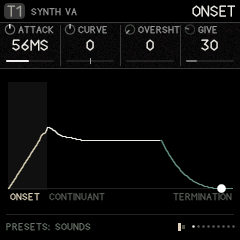
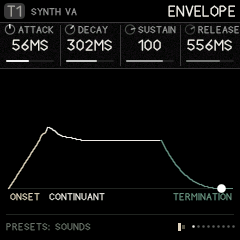
ENV: ATTACK, DECAY, SUSTAIN, RELEASE on the first page
The volume envelope's first page is ENVELOPE (attack, decay, sustain,
release); ONSET follows with CURVE, OVERSHT and GIVE, then LOOP / TAIL.
The picture lights the whole shape on ENVELOPE, the onset on ONSET and
the hold and end on LOOP / TAIL. Manual screens redrawn.

Claude-Session: https://claude.ai/code/session_01BwzGhPZLDZkrxZk5dy3Yyf

diff --git a/firmware/app/rv_ui.c b/firmware/app/rv_ui.c
@@ -102,9 +102,9 @@ static const page_t pages[] = {
     {SEC_VOICE, V_ALL, PIC_MIX, PR_SOUND, "MIX", {TP(TP_LEVEL), TP(TP_PAN), TP(TP_DLYS), TP(TP_REVS)}},
     {SEC_VOICE, V_ALL, PIC_MIX, PR_SOUND, "SENDS", {TP(TP_FBS), TP(TP_PAIRS), TP(TP_VOC), TP(TP_BANDS)}},
 
-    {SEC_ARTIC, V_ALL, PIC_ENV, PR_SOUND, "ONSET", {TP(TP_ATK), TP(TP_ACURVE), TP(TP_OVER), TP(TP_GIVE)}},
-    {SEC_ARTIC, V_ALL, PIC_ENV, PR_SOUND, "CONTINUANT", {TP(TP_DEC), TP(TP_SUS), TP(TP_LOOP), NO}},
-    {SEC_ARTIC, V_ALL, PIC_ENV, PR_SOUND, "TERMINATION", {TP(TP_REL), TP(TP_TAIL), NO, NO}},
+    {SEC_ARTIC, V_ALL, PIC_ENV, PR_SOUND, "ENVELOPE", {TP(TP_ATK), TP(TP_DEC), TP(TP_SUS), TP(TP_REL)}},
+    {SEC_ARTIC, V_ALL, PIC_ENV, PR_SOUND, "ONSET", {TP(TP_ACURVE), TP(TP_OVER), TP(TP_GIVE), NO}},
+    {SEC_ARTIC, V_ALL, PIC_ENV, PR_SOUND, "LOOP / TAIL", {TP(TP_LOOP), TP(TP_TAIL), NO, NO}},
     {SEC_ARTIC, V_ALL, PIC_ENV, PR_SOUND, "DESTINATIONS", {TP(TP_EDST1), TP(TP_EAMT1), TP(TP_EDST2), TP(TP_EAMT2)}},
     /* the FILTER ENV: its own delay, attack, hold, decay, sustain, release, bends, loop and rate */
     {SEC_ARTIC, V_ALL, PIC_FENV, PR_SOUND, "FILTER ENV", {TP(TP_FATK), TP(TP_FDEC), TP(TP_FSUS), TP(TP_FREL)}},
@@ -2866,7 +2866,7 @@ static void pic_env(void)
     float wa = 18.0f + fm_sqrtf(atk) * 40.0f, wd = 18.0f + fm_sqrtf(dec) * 40.0f, wr = 18.0f + fm_sqrtf(rel) * 40.0f, wh = 40.0f;
     float tot = wa + wd + wh + wr, sc = 224.0f / tot;
     const page_t *pg = cur_page();
-    int focus = pg->title[0] == 'O' ? 0 : pg->title[0] == 'C' ? 1 : pg->title[0] == 'T' ? 2 : -1;
+    int focus = pg->title[0] == 'O' ? 0 : pg->title[0] == 'L' ? 4 : pg->title[0] == 'E' ? 3 : -1;   /* 3: all of it; 4: the loop and the tail */
     if (rv.tp[t][TP_KIND] == KIND_PERC) {
         g_text_c(120, PIC_Y + 40, &FONT_B, "THE MACHINE MAKES", C_PERC);
         g_text_c(120, PIC_Y + 62, &FONT_B, "ITS OWN ENVELOPE", C_PERC);
@@ -2879,8 +2879,8 @@ static void pic_env(void)
     seg_x[1] = seg_x[0] + (int)(wd * sc);
     seg_x[2] = seg_x[1] + (int)(wh * sc);
     seg_x[3] = 232;
-    if (focus >= 0)
-        g_fill(focus == 0 ? 8 : focus == 1 ? seg_x[0] : seg_x[2], top - 8, focus == 0 ? seg_x[0] - 8 : focus == 1 ? seg_x[2] - seg_x[0] : 232 - seg_x[2], base - top + 10, C_PANEL);
+    if (focus == 0 || focus == 4)                     /* the stage the page is about, behind the curve */
+        g_fill(focus == 0 ? 8 : seg_x[0], top - 8, focus == 0 ? seg_x[0] - 8 : 232 - seg_x[0], base - top + 10, C_PANEL);
     g_hline(8, base, 224, C_LINE);
     for (i = 8; i <= 232; i++) {
         float y, u;
@@ -2910,9 +2910,9 @@ static void pic_env(void)
             g_line(i - 1, prev, i, py, i < seg_x[0] ? C_TEAL : i < seg_x[2] ? C_INK : C_AMBER);
         prev = py;
     }
-    g_text(10, base + 4, &FONT_T, "ONSET", focus == 0 ? C_TEAL : C_DIM);
-    g_text(seg_x[0] + 2, base + 4, &FONT_T, "CONTINUANT", focus == 1 ? C_INK : C_DIM);
-    g_text_r(232, base + 4, &FONT_T, "TERMINATION", focus == 2 ? C_AMBER : C_DIM);
+    g_text(10, base + 4, &FONT_T, "ONSET", focus == 0 || focus == 3 ? C_TEAL : C_DIM);
+    g_text(seg_x[0] + 2, base + 4, &FONT_T, "CONTINUANT", focus >= 3 ? C_INK : C_DIM);
+    g_text_r(232, base + 4, &FONT_T, "TERMINATION", focus >= 3 ? C_AMBER : C_DIM);
     /* the playing voice */
     {
         int st = rv_live.stage[t];

diff --git a/README.md b/README.md
@@ -615,17 +615,17 @@ A PERC track starts as a **KIT**: six **lanes**, each its own machine with its o
 
 ## 7. ENV: articulation
 
-<p align="center"><img src="docs/manual/artic-onset.png" alt="ONSET page" width="320"></p>
+<p align="center"><img src="docs/manual/artic-onset.png" alt="ENVELOPE page" width="320"></p>
 
-Each track has two envelopes. The **volume envelope** (ONSET, CONTINUANT, TERMINATION, DESTINATIONS) shapes the level and can move two more parameters. The **FILTER ENV** (three pages after it) opens and closes the filter.
+Each track has two envelopes. The **volume envelope** (ENVELOPE, ONSET, LOOP / TAIL, DESTINATIONS) shapes the level and can move two more parameters. The **FILTER ENV** (three pages after it) opens and closes the filter.
 
-The volume envelope is in three stages, named after how speech is described: the **onset** (how a sound starts), the **continuant** (how it holds) and the **termination** (how it ends). The picture draws the shape as you turn the knobs.
+The volume envelope is in three stages, named after how speech is described: the **onset** (how a sound starts), the **continuant** (how it holds) and the **termination** (how it ends). The first page holds the four times and the level you reach for most, attack, decay, sustain and release; the pages after it shape them. The picture draws the shape as you turn the knobs.
 
 | Page | KNOB 1 | KNOB 2 | KNOB 3 | KNOB 4 |
 | --- | --- | --- | --- | --- |
-| **ONSET** | ATTACK time (0.5 ms to 8 s) | CURVE: − is a fast swell, + a slow one | OVERSHT: the attack overshoots and settles (a "bite") | GIVE: a spring in the level. It lags and bounces instead of moving straight. |
-| **CONTINUANT** | DECAY time | SUSTAIN level | LOOP: repeats the attack and decay while held (a rhythmic flutter; higher is faster) | – |
-| **TERMINATION** | RELEASE time | TAIL: a quiet tail after the release (room for reverbs to bloom) | – | – |
+| **ENVELOPE** | ATTACK time (0.5 ms to 8 s) | DECAY time | SUSTAIN level | RELEASE time |
+| **ONSET** | CURVE: − is a fast swell, + a slow one | OVERSHT: the attack overshoots and settles (a "bite") | GIVE: a spring in the level. It lags and bounces instead of moving straight. | – |
+| **LOOP / TAIL** | LOOP: repeats the attack and decay while held (a rhythmic flutter; higher is faster) | TAIL: a quiet tail after the release (room for reverbs to bloom) | – | – |
 
 (VELO, velocity sensitivity, is on EDIT › SOUND.)
 | **DESTINATIONS** | DEST 1: any parameter of this track | AMOUNT 1 (±) | DEST 2 | AMOUNT 2 (±) |
